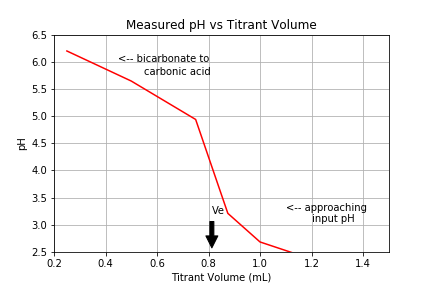
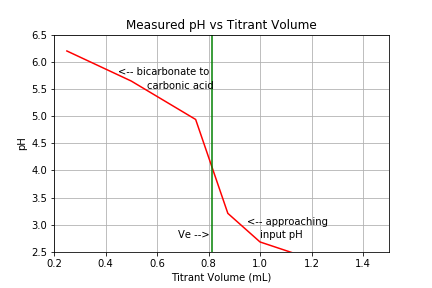
new

Changed region(s): [[0.2708, 0.125, 0.5116, 0.875], [0.5718, 0.6875, 0.8426, 0.8438]]

diff --git a/Postlabs/Data Analysis Lab 3.md b/Postlabs/Data Analysis Lab 3.md
@@ -49,12 +49,13 @@ ax.grid(True)
 plt.ylim(2.5,6.5)
 plt.xlim(0.2,1.5)
 
-ax.annotate('Ve', xy=(0.813005 , 2.51), xytext=(0.813005, 3.2), arrowprops=dict(facecolor='black', shrink=0.10),)
+ax.annotate('Ve -->', xy=(0.813005 , 2.51), xytext=(0.68, 2.75),) #arrowprops=dict(facecolor='black', shrink=0.10),)
 
-plt.text(0.45, 6, '<-- bicarbonate to')
-plt.text(0.55, 5.75, 'carbonic acid')
-plt.text(1.1, 3.25, '<-- approaching')
-plt.text(1.2, 3.05, 'input pH')
+plt.axvline(x=V_equivalent.magnitude, color='g')
+plt.text(0.45, 5.75, '<-- bicarbonate to')
+plt.text(0.56, 5.5, 'carbonic acid')
+plt.text(0.95, 3.0, '<-- approaching')
+plt.text(1, 2.75, 'input pH')
 # Here I save the file to my local harddrive. You will need to change this to work on your computer.
 # We don't need the file type (png) here.
 plt.savefig('gran_t=0-2')
@@ -148,7 +149,7 @@ import numpy as np
 import matplotlib.pyplot as plt
 import pandas as pd
 from scipy import stats
-data_set = "https://raw.githubusercontent.com/barbaraoramah/my-CEE4530/master/Lab%202%20-%20Acid%20Rain%20(1).txt"
+
 import aguaclara.research.environmental_processes_analysis as epa
 import math
 from aguaclara import *
@@ -156,26 +157,18 @@ from aguaclara import *
 df = pd.read_csv(data_set,delimiter='\t')
 print(df)
 
+data_set_0 = "https://github.com/IanStarnes/Barbara-And-Ian/blob/master/Lab%203%20Data/time_equals_0_Gran_Plot_v2.xls"
+data_set_5 = "https://raw.githubusercontent.com/IanStarnes/Barbara-And-Ian/master/Lab%203%20Data/time_equals_5_Gran_Plot_v2.xls"
+data_set_10 = "https://raw.githubusercontent.com/IanStarnes/Barbara-And-Ian/master/Lab%203%20Data/time_equals_10_Gran_Plot.xls"
+data_set_15 = "https://raw.githubusercontent.com/IanStarnes/Barbara-And-Ian/master/Lab%203%20Data/time_equals_15_Gran_Plot.xls"
 
-mass_total = 4.563 * u.kg
-mass_bucket = 0.592* u.kg
-mass_water = mass_total-mass_bucket
-print(mass_water)
-volume_water = (mass_water/(1*u.kg/u.L))
-print (volume_water)
-ANC_in = -0.001*u.eq/u.L
-pH_0 = 7.77
-mass_nahco3 = 0.623 * u.g
-mwt_nahco3 = 84* u.g/u.eq
-conc_nahco3 = mass_nahco3/mwt_nahco3/volume_water
-print(conc_nahco3)
-ANC_0 = conc_nahco3
-print(ANC_0)
+Gran_data_0 = epa.Gran(data_set_0)
+Gran_data_5 = epa.Gran(data_set_5)
+Gran_data_10 = epa.Gran(data_set_10)
+Gran_data_15 = epa.Gran(data_set_15)
 
-flow_rate = 0.074/15*u.L/u.s
-print(flow_rate)
-theta = volume_water/flow_rate
-print(theta)
+
+
 
  # Q2
 time = epa.column_of_time(data_set,1,-1)

diff --git a/Postlabs/Data Analysis Lab 2.md b/Postlabs/Data Analysis Lab 2.md
@@ -77,7 +77,7 @@ $$ANC_{out}= \frac {ANC_0}{e^{t/\theta}} + ANC_{in} (1-e^{-t/\theta}) $$
 
 <p align="center"> <img src="https://github.com/barbaraoramah/my-CEE4530/blob/master/images/ANCplots2.png?raw=true" heights=310 width=927> </p>
 
-**Figure 2** 
+**Figure 2**
 
 ```python
 # Part 2: CMFR graph
